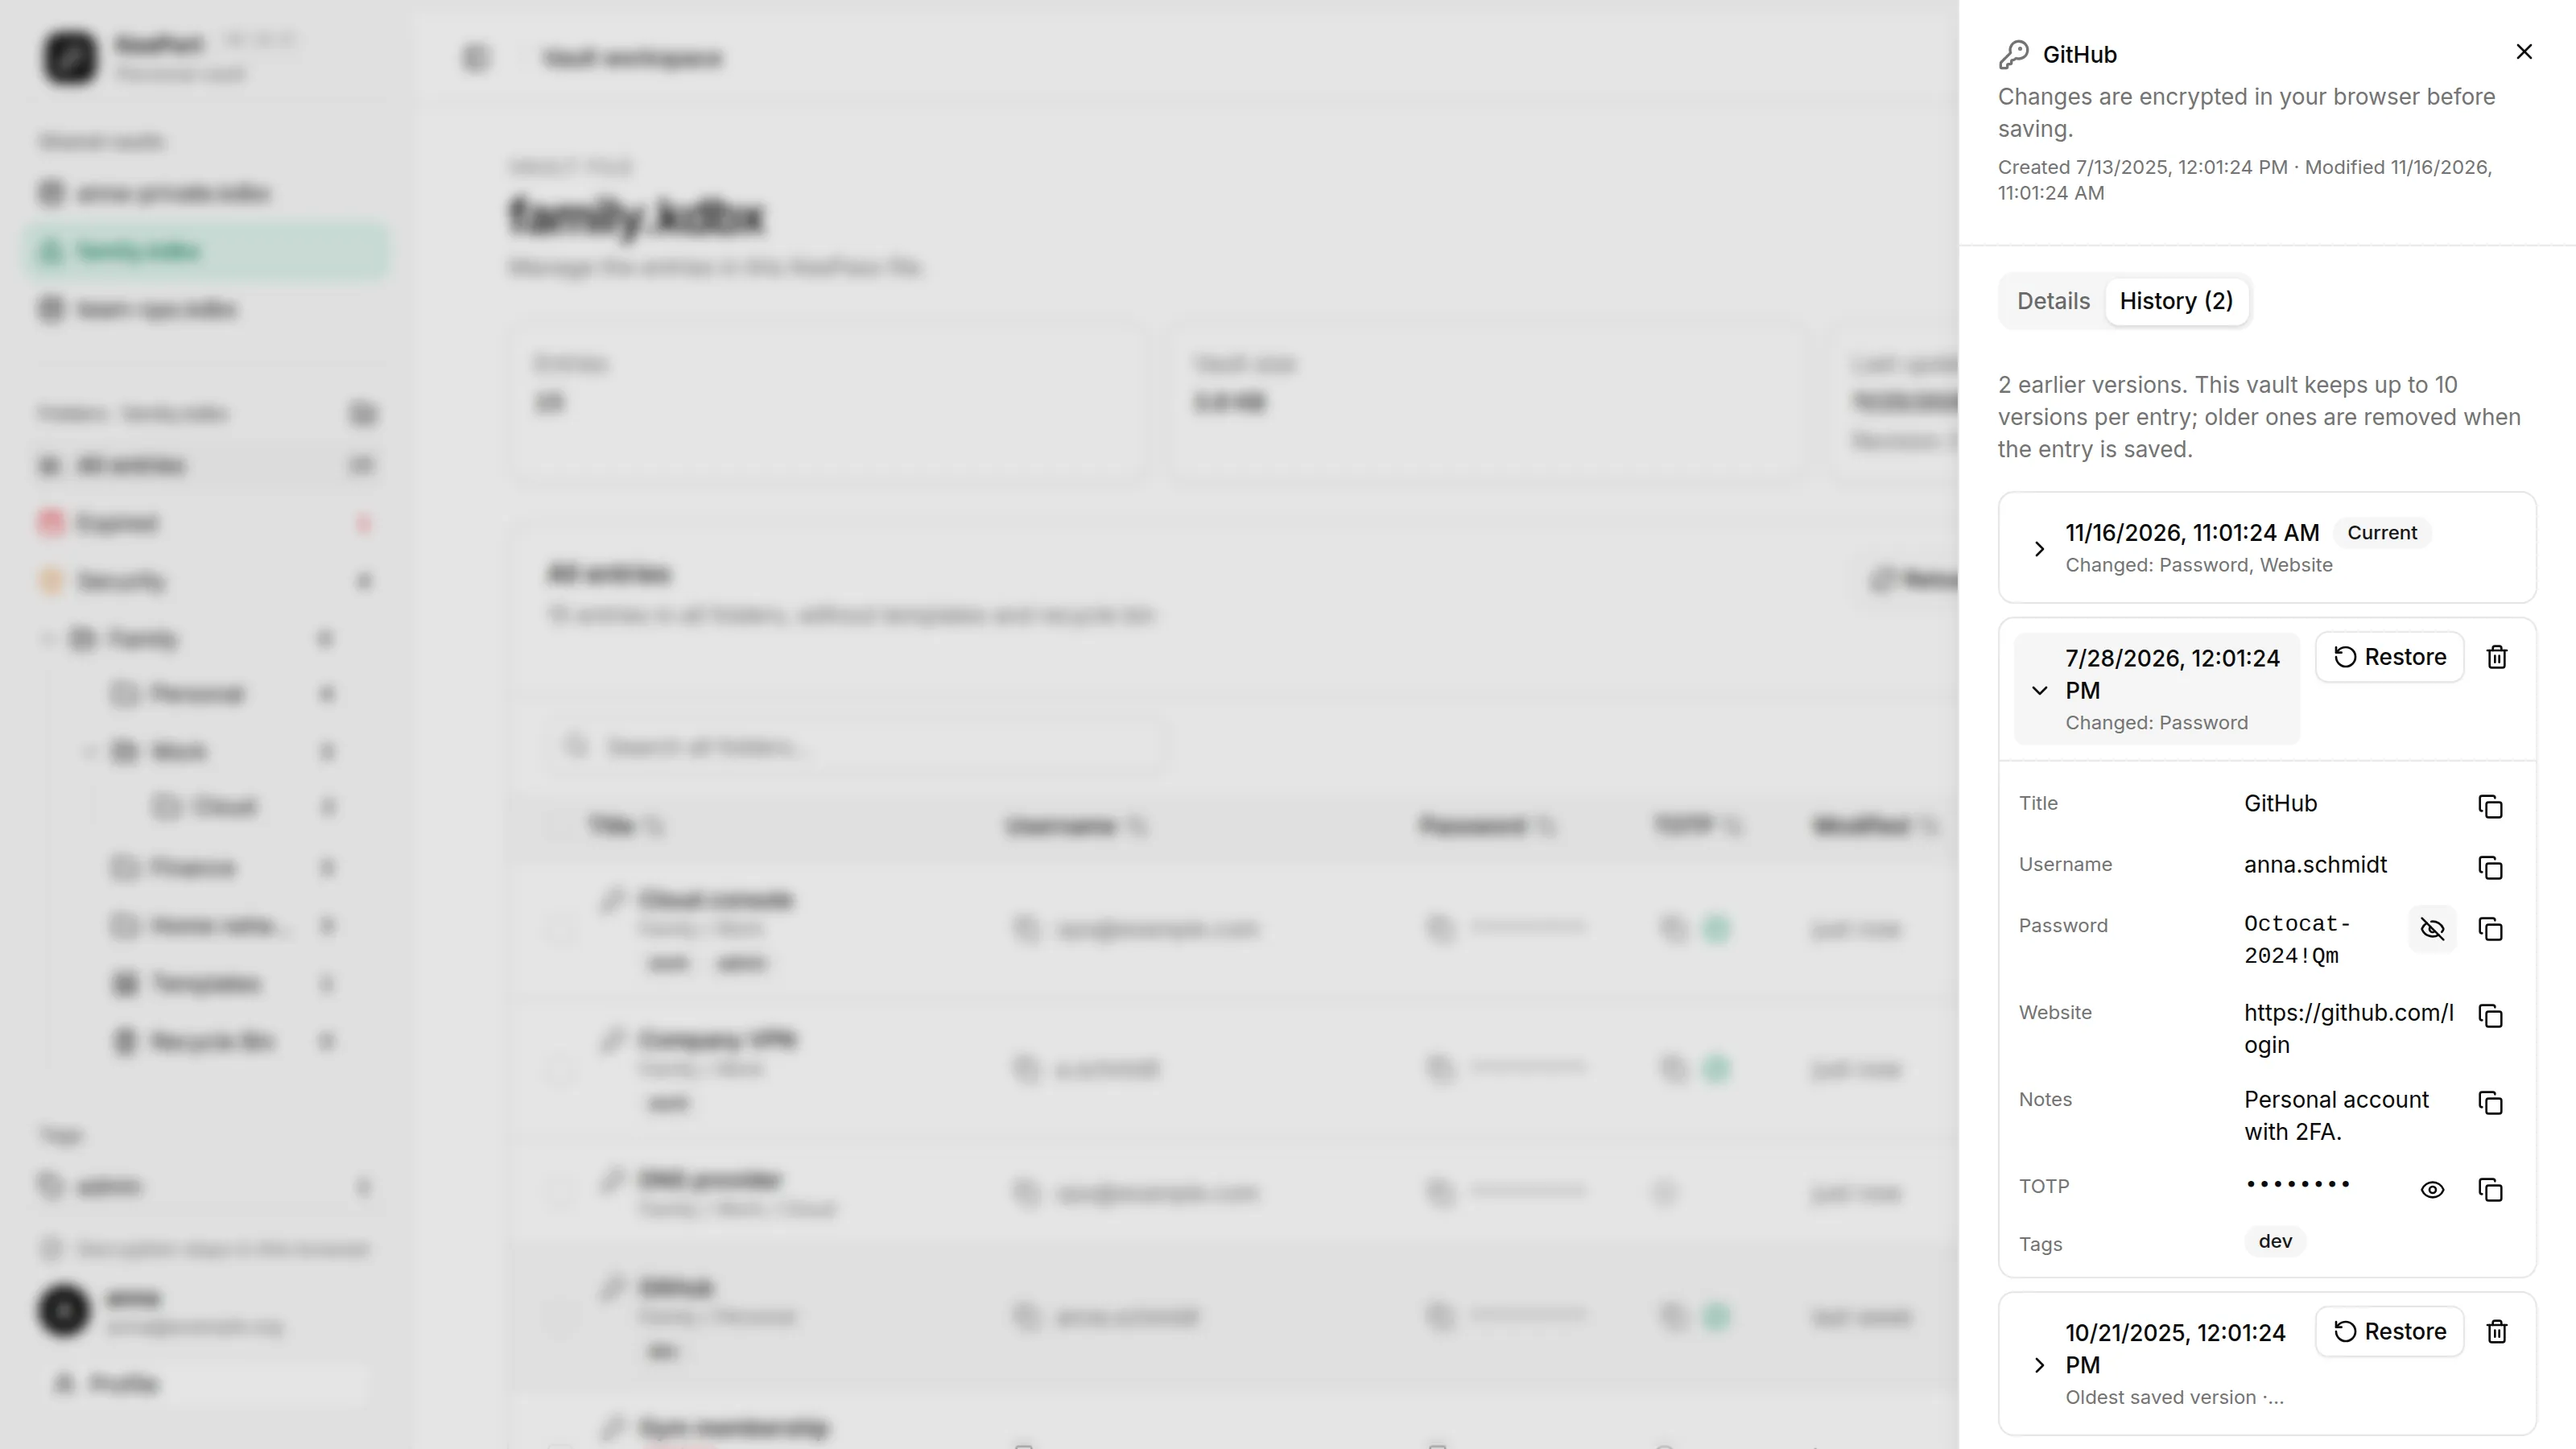
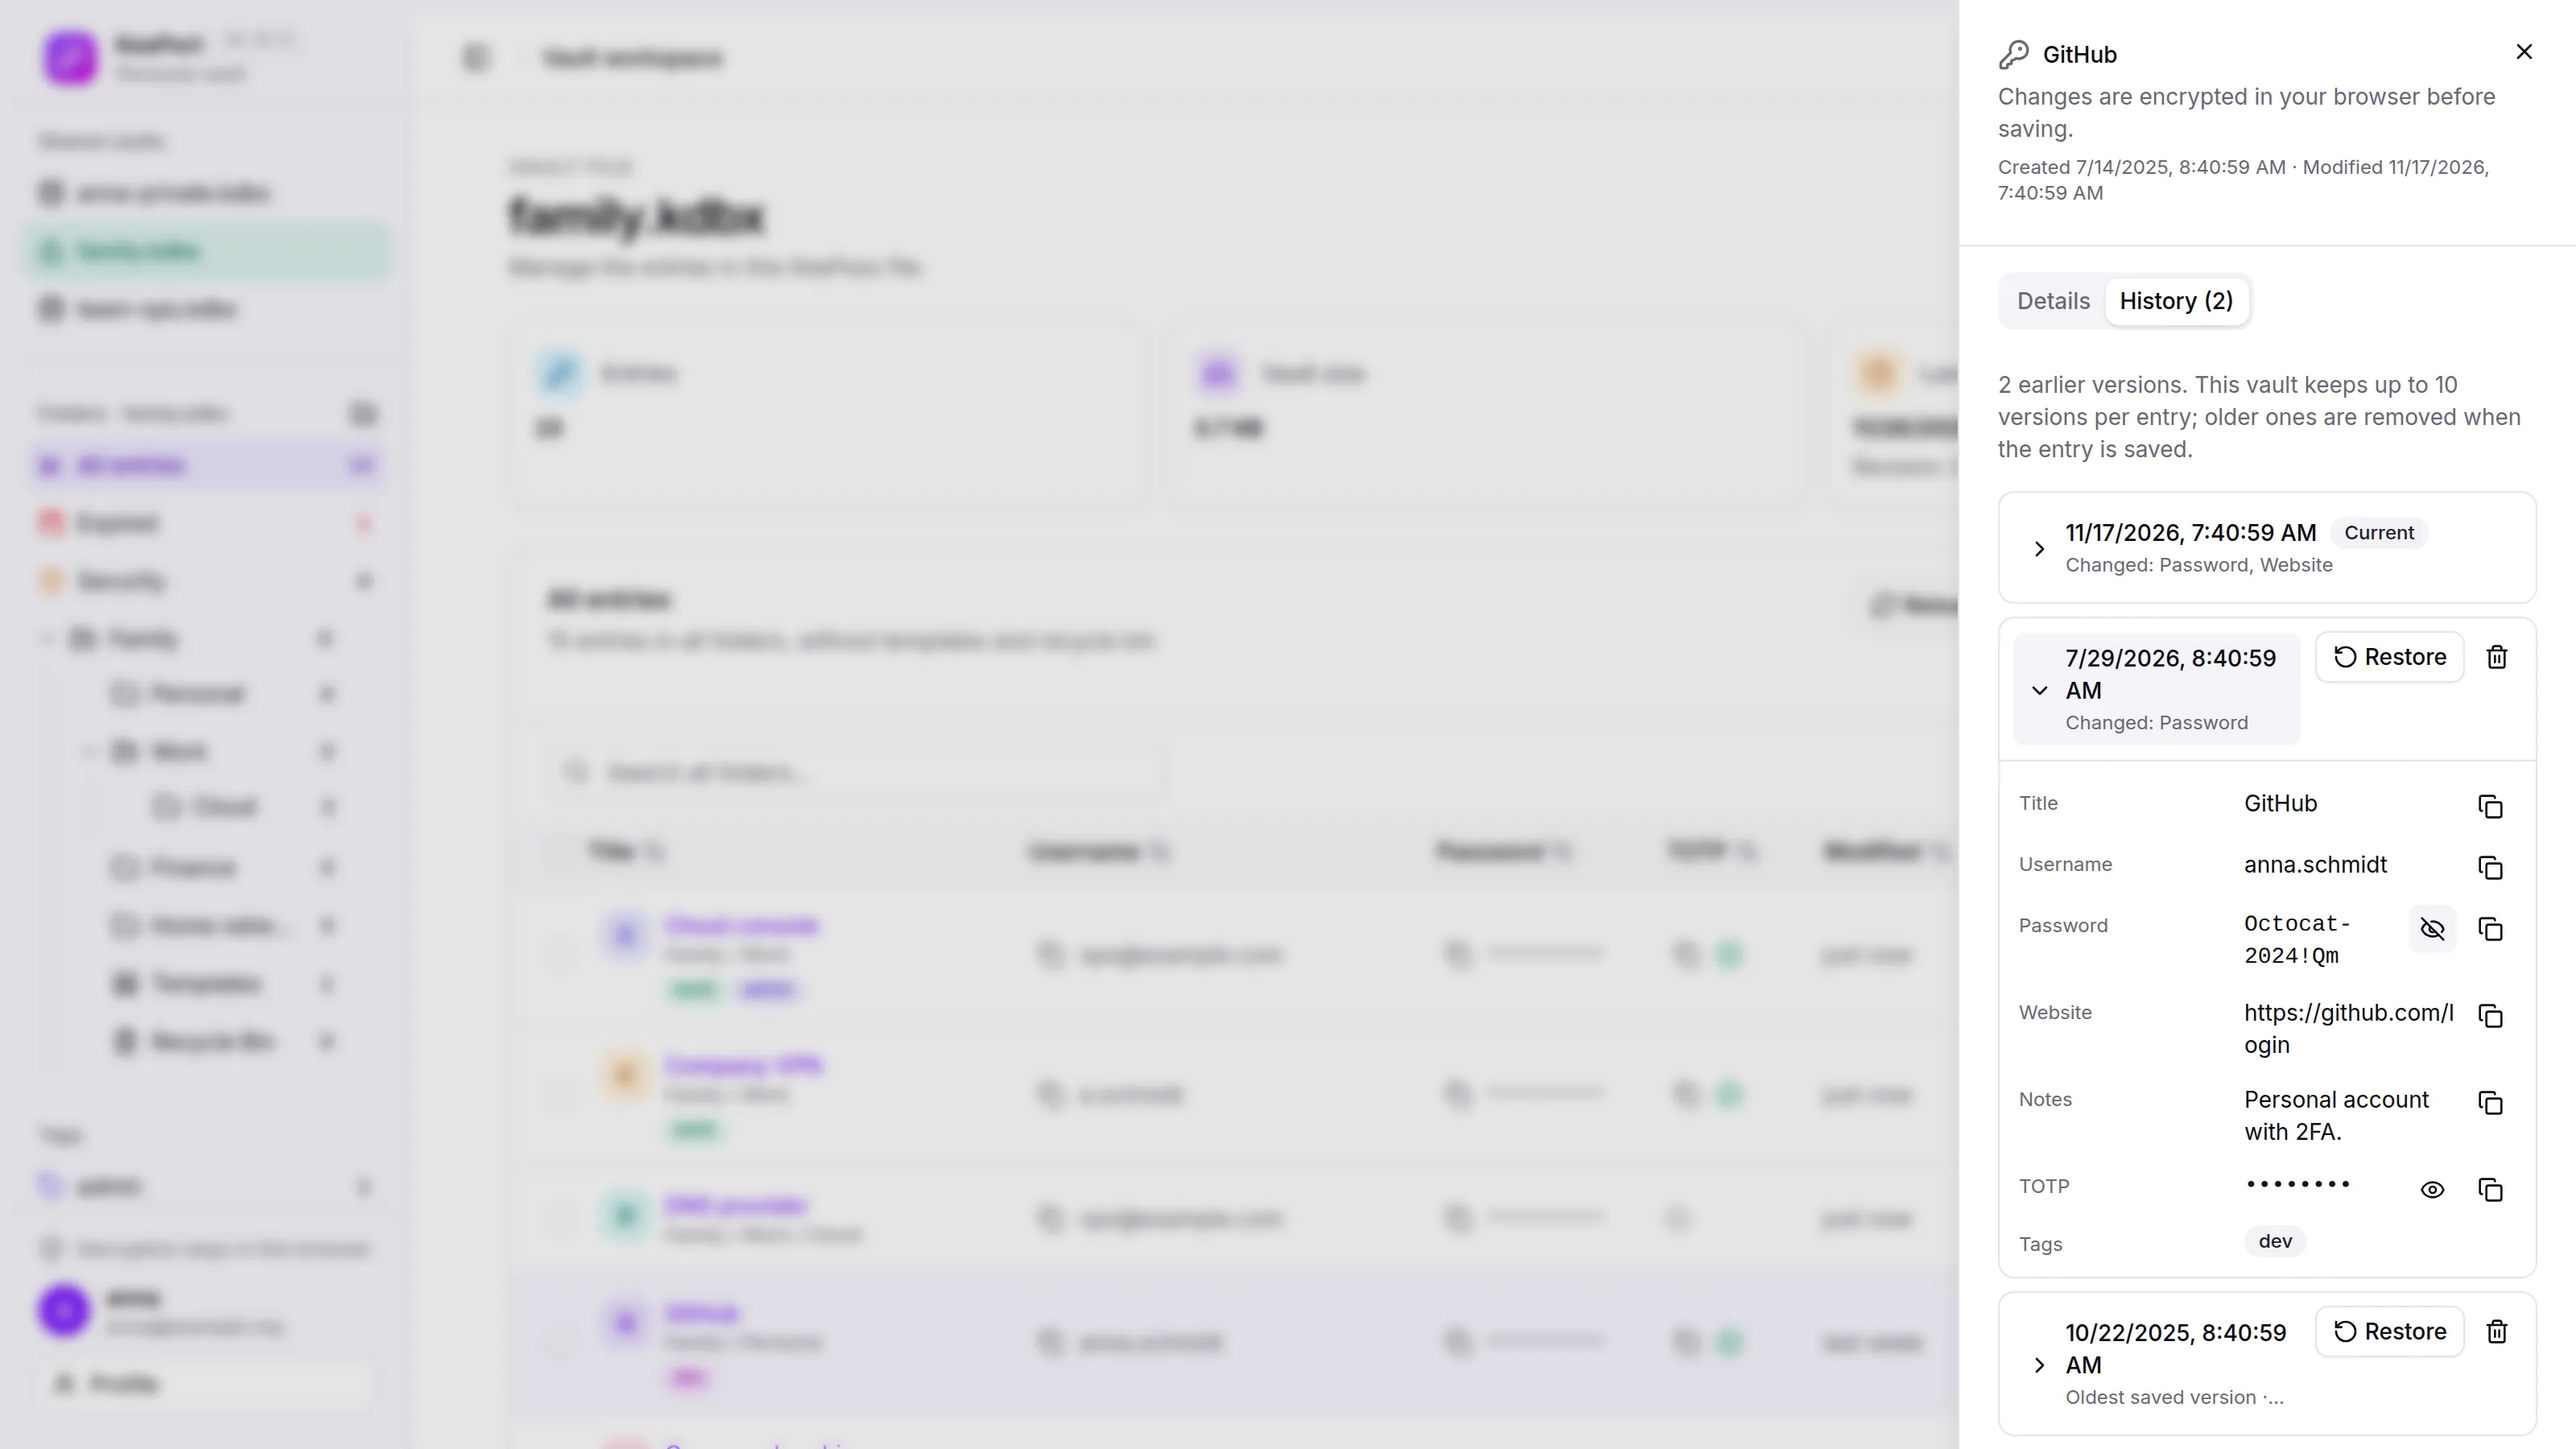
docs: refresh README screenshots for the 0.15 look

diff --git a/CHANGELOG.md b/CHANGELOG.md
@@ -5,6 +5,12 @@ All notable changes to this project will be documented in this file.
 The format is based on [Keep a Changelog](https://keepachangelog.com/en/1.1.0/),
 and this project adheres to [Semantic Versioning](https://semver.org/spec/v2.0.0.html).
 
+## [0.15.1] - 2026-11-26
+
+### Changed
+
+- The screenshots in the README show the new violet look of 0.15.0.
+
 ## [0.15.0] - 2026-11-26
 
 ### Changed
@@ -374,6 +380,7 @@ First beta release.
 - Login and setup share a configurable per-IP rate limit; session checks and sign-out are exempt. WebDAV has a separate configurable limit applied before authentication.
 - Admin accounts can only sign in to the Admin console; Vault and WebDAV require a separate user account. Admin sessions are scoped to the Admin API, so existing admins need to sign in again after updating.
 
+[0.15.1]: https://github.com/madcoda9000/KeePort/compare/v0.15.0...v0.15.1
 [0.15.0]: https://github.com/madcoda9000/KeePort/compare/v0.14.3...v0.15.0
 [0.14.3]: https://github.com/madcoda9000/KeePort/compare/v0.14.2...v0.14.3
 [0.14.2]: https://github.com/madcoda9000/KeePort/compare/v0.14.1...v0.14.2
